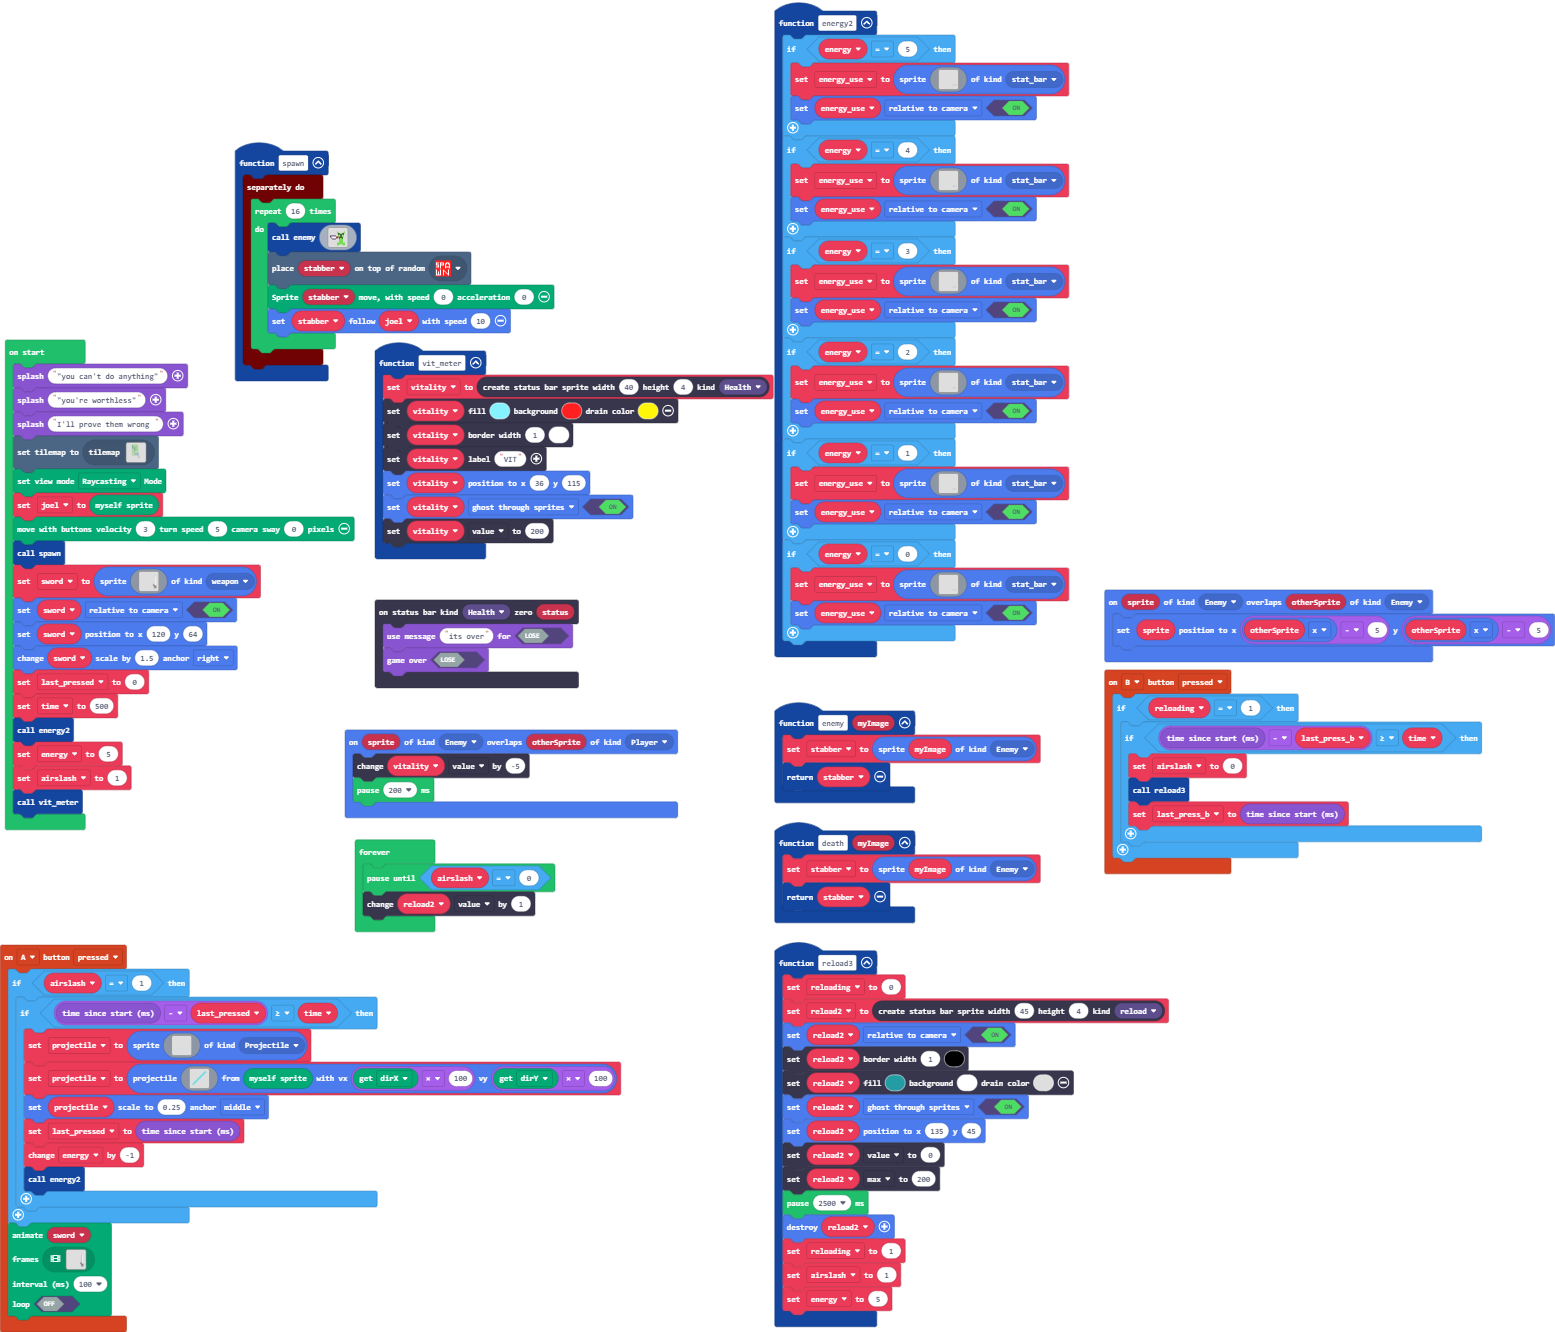
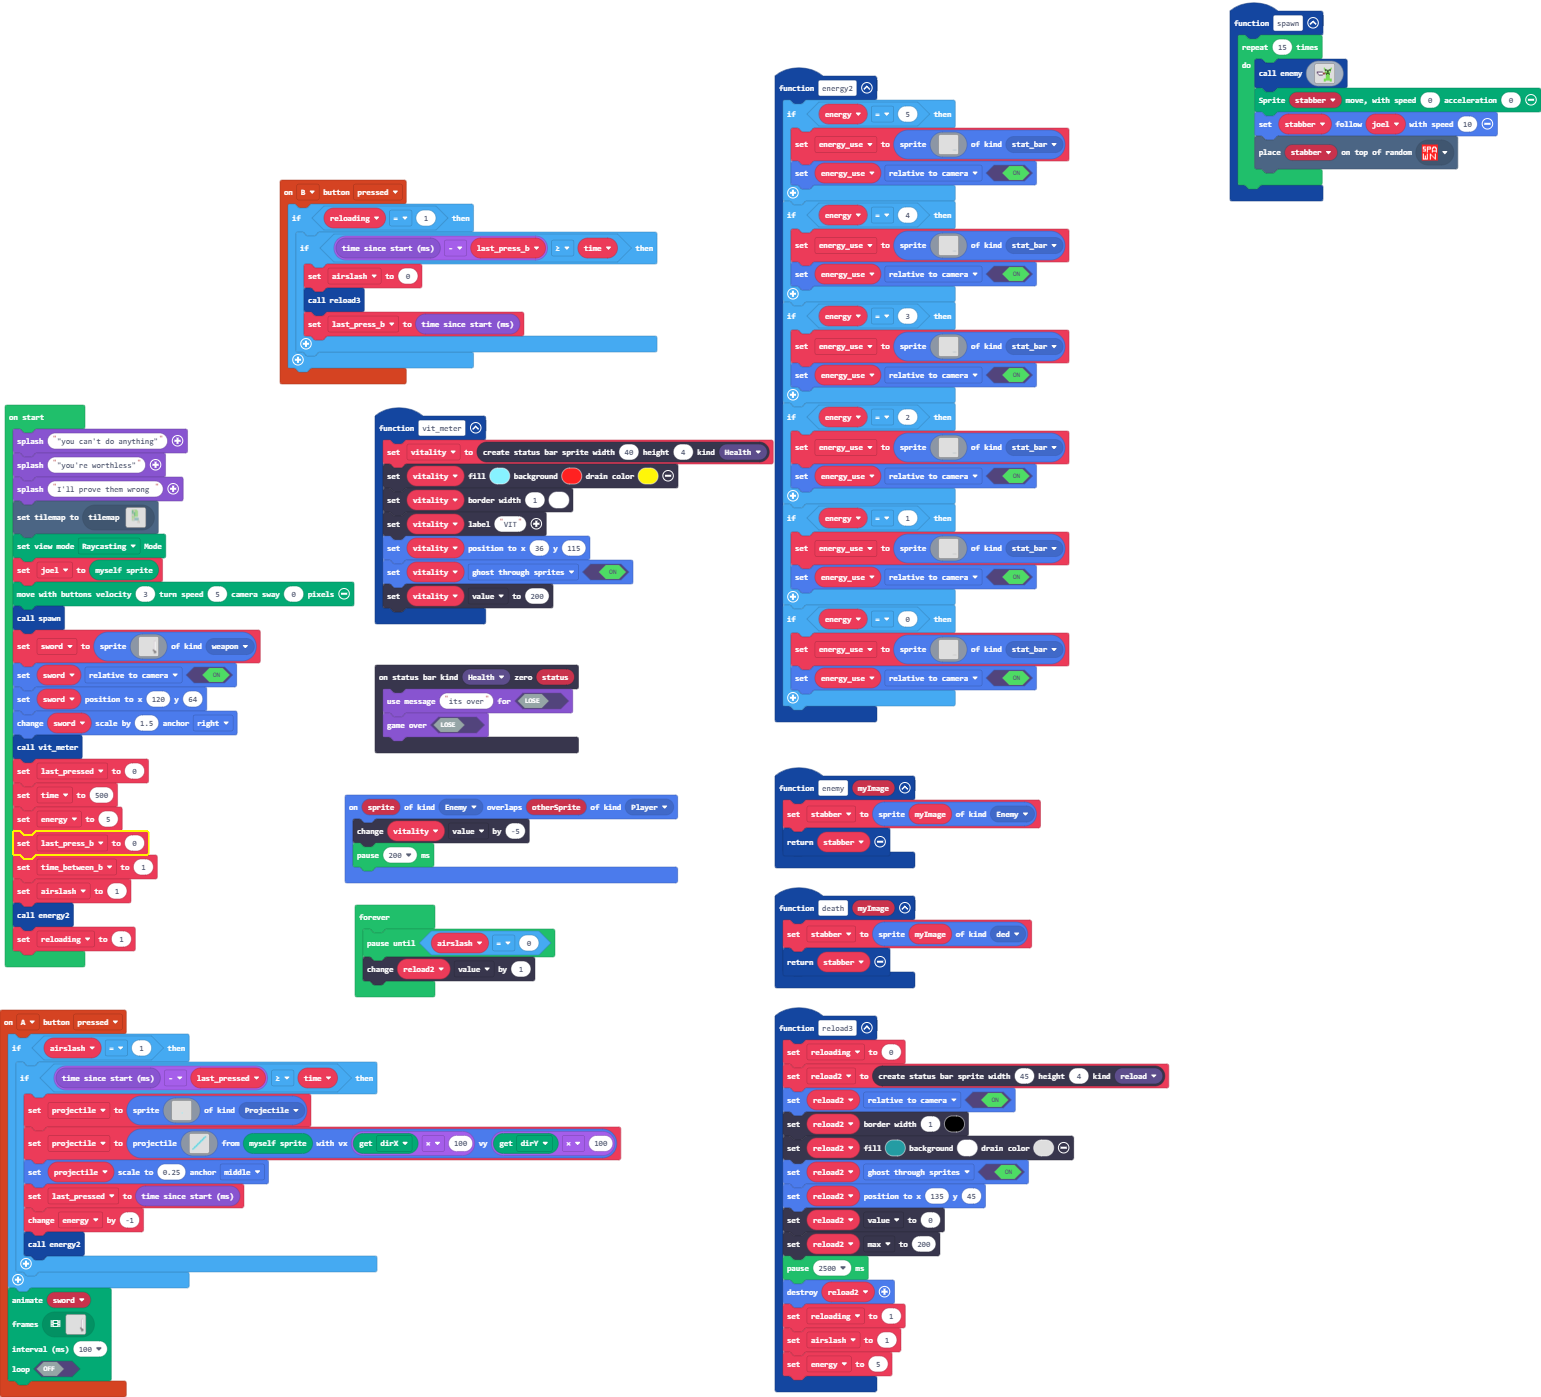
Update pxt.json, main.blocks, main.ts

diff --git a/main.ts b/main.ts
@@ -353,12 +353,9 @@ function reload3 () {
     energy = 5
 }
 function death (myImage: Image) {
-    stabber = sprites.create(myImage, SpriteKind.Enemy)
+    stabber = sprites.create(myImage, SpriteKind.ded)
     return stabber
 }
-sprites.onOverlap(SpriteKind.Enemy, SpriteKind.Enemy, function (sprite, otherSprite) {
-    sprite.setPosition(otherSprite.x - 5, otherSprite.x - 5)
-})
 function vit_meter () {
     vitality = statusbars.create(40, 4, StatusBarKind.Health)
     vitality.setColor(9, 2, 5)
@@ -381,23 +378,21 @@ function enemy (myImage: Image) {
     return stabber
 }
 function spawn () {
-    timer.background(function () {
-        for (let index = 0; index < 16; index++) {
-            enemy(assets.image`stabby`)
-            tiles.placeOnRandomTile(stabber, assets.tile`enemyspawn`)
-            Render.move(stabber, 0, 0)
-            stabber.follow(joel, 10)
-        }
-    })
+    for (let index = 0; index < 15; index++) {
+        enemy(assets.image`stabby`)
+        Render.move(stabber, 0, 0)
+        stabber.follow(joel, 10)
+        tiles.placeOnRandomTile(stabber, assets.tile`enemyspawn`)
+    }
 }
 let vitality: StatusBarSprite = null
 let stabber: Sprite = null
 let reload2: StatusBarSprite = null
 let projectile: Sprite = null
 let energy_use: Sprite = null
-let last_press_b = 0
 let reloading = 0
 let airslash = 0
+let last_press_b = 0
 let energy = 0
 let time = 0
 let last_pressed = 0
@@ -415,12 +410,15 @@ sword = sprites.create(assets.image`sword`, SpriteKind.weapon)
 sword.setFlag(SpriteFlag.RelativeToCamera, true)
 sword.setPosition(120, 64)
 sword.changeScale(1.5, ScaleAnchor.Right)
+vit_meter()
 last_pressed = 0
 time = 500
-energy2()
 energy = 5
+last_press_b = 0
+let time_between_b = 1
 airslash = 1
-vit_meter()
+energy2()
+reloading = 1
 forever(function () {
     pauseUntil(() => airslash == 0)
     reload2.value += 1
